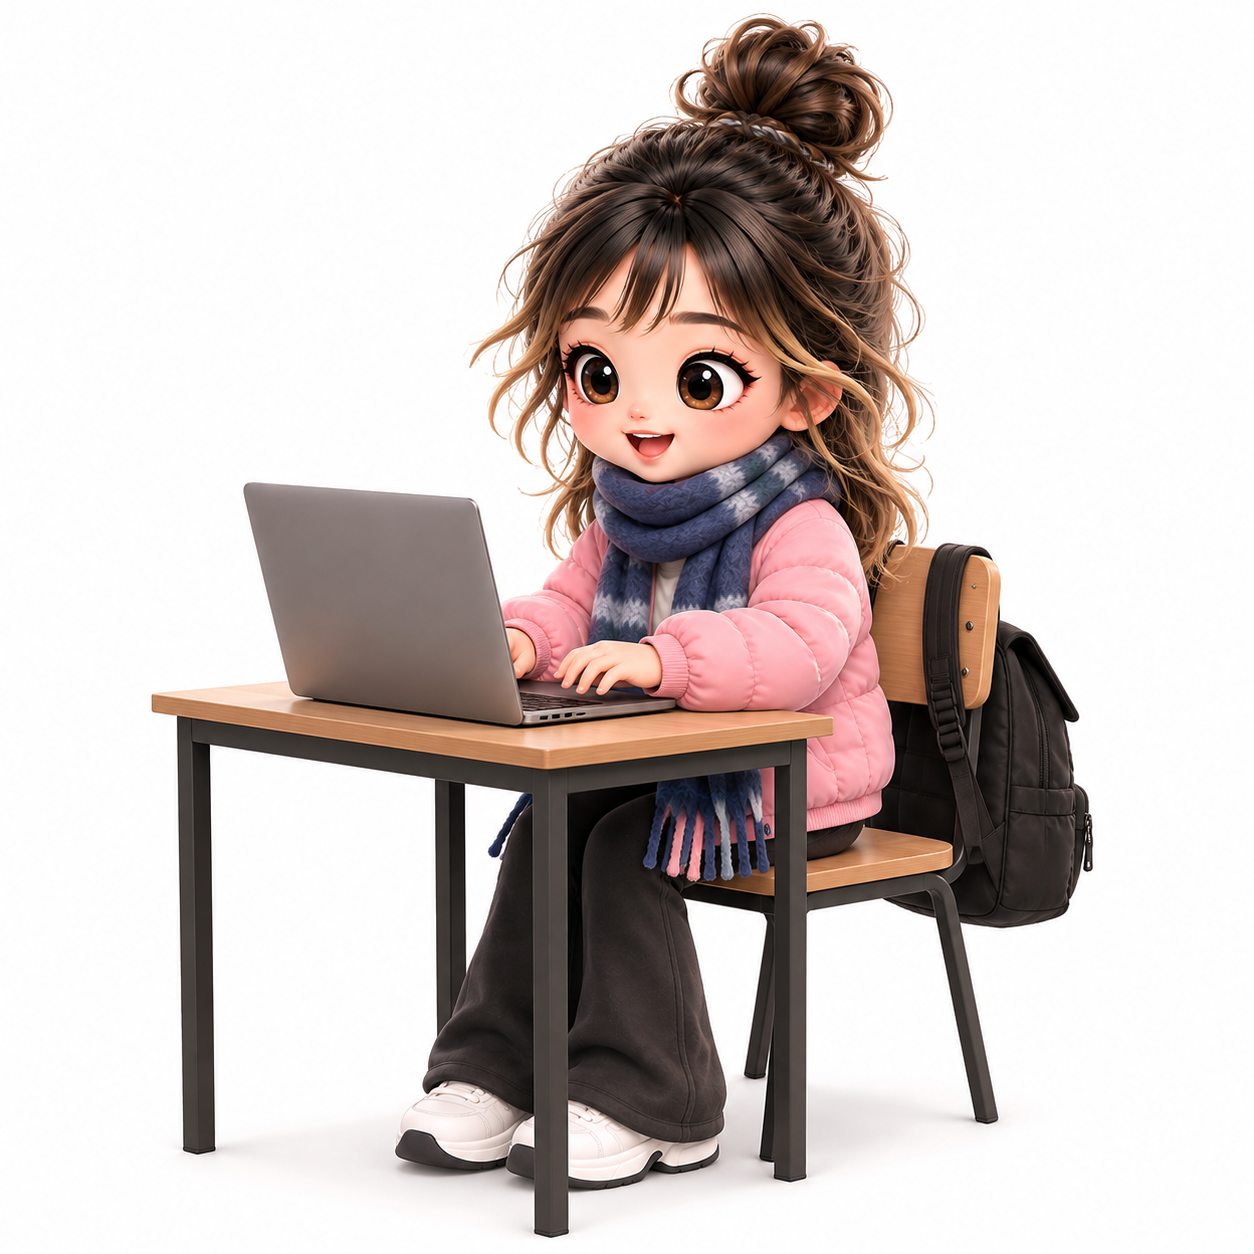
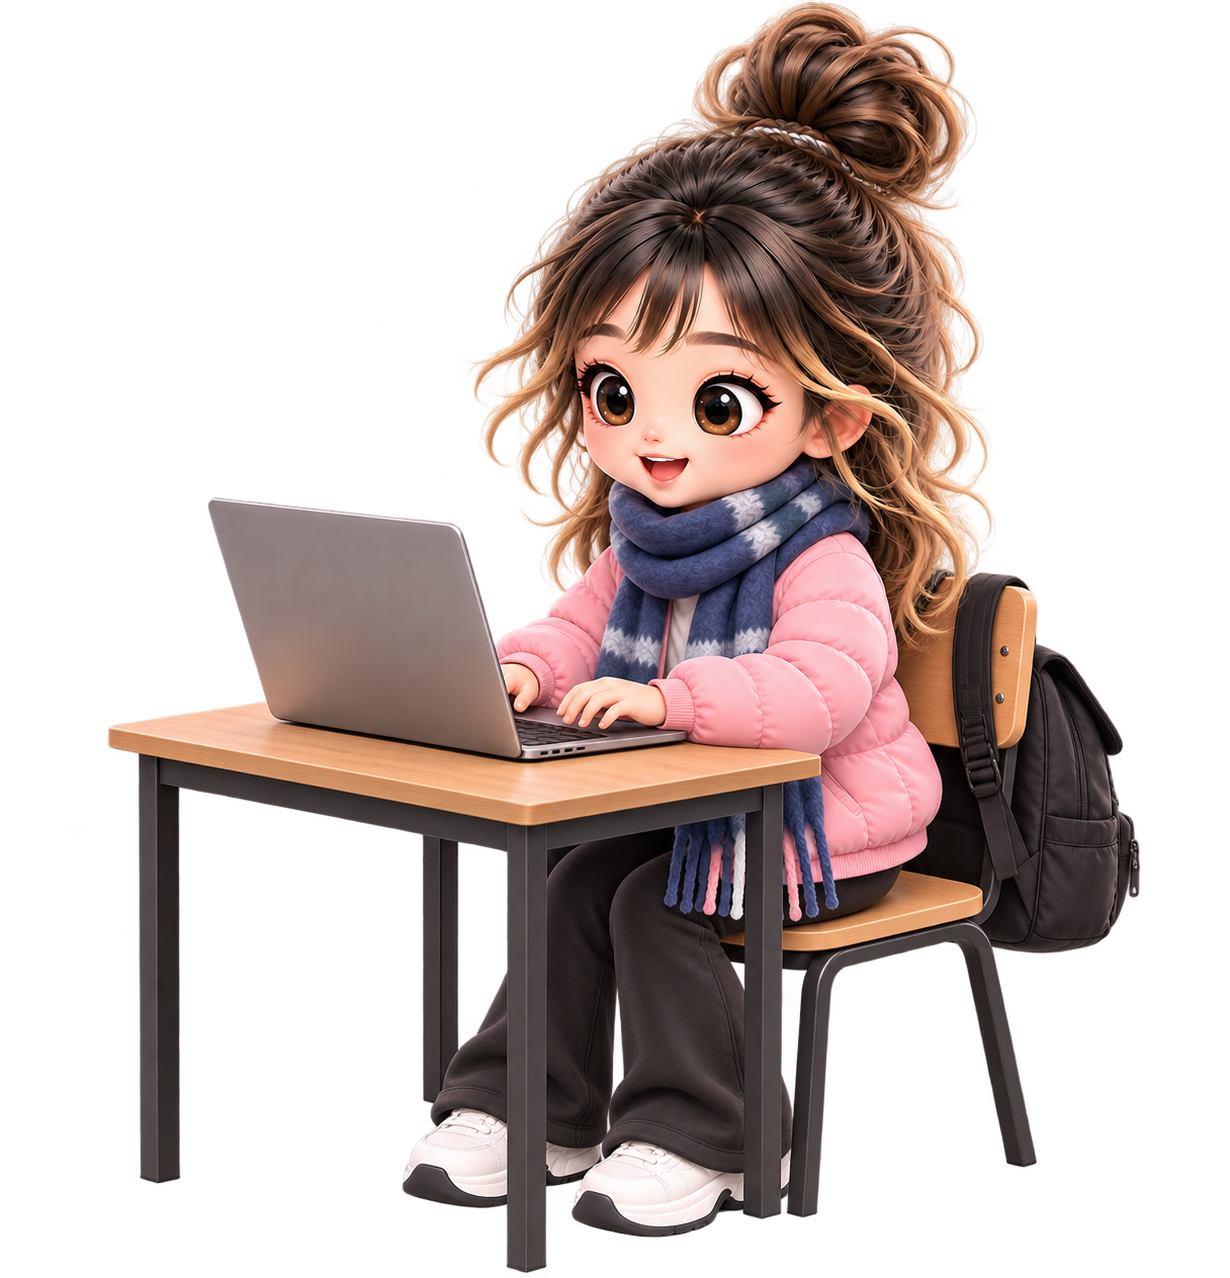
picture

diff --git a/assets/kat-pet.js b/assets/kat-pet.js
@@ -38,7 +38,7 @@
     }
   })();
 
-  // ── 1. 动作帧（已接入 ChatGPT 生成的 10 帧素材）────
+  // ── 1. 动作帧（已接入 ChatGPT 生成的 6 帧素材）────
   var FALLBACK = (window.RC_CONFIG && RC_CONFIG.katAvatar) || RC_ROOT + 'assets/kat-avatar.PNG';
   var KAT_FRAMES = {
     idle:  RC_ROOT + 'assets/kat/kat-idle.png',
@@ -47,10 +47,11 @@
     sleep: RC_ROOT + 'assets/kat/kat-sleep.png',
     cute:  RC_ROOT + 'assets/kat/kat-cute.png',
     wait:  RC_ROOT + 'assets/kat/kat-wait.png',
-    map:   RC_ROOT + 'assets/kat/kat-map.png',
-    curiosity:   RC_ROOT + 'assets/kat/kat-curiosity.png',
-    eat:   RC_ROOT + 'assets/kat/kat-eat.png',
-    lungaage:   RC_ROOT + 'assets/kat/kat-lungaage.png'
+    luggage:   RC_ROOT + 'assets/kat/kat-luggage.png',
+    walk:      RC_ROOT + 'assets/kat/kat-walk.png',
+    map:       RC_ROOT + 'assets/kat/kat-map.png',
+    curiosity: RC_ROOT + 'assets/kat/kat-curiosity.png',
+   computer:   RC_ROOT + 'assets/kat/kat-computer.png'
   };
 
   // ── 2. 行为参数 ──────────────────────────────────────────
@@ -157,6 +158,13 @@
   document.body.appendChild(pet);
 
   var img    = pet.querySelector('.kat-pet-img');
+  // 兜底：帧图加载失败（如新帧未上传/命名不符）时，退化到上次成功加载的照片，避免破图
+  var lastGoodSrc = img.getAttribute('src') || KAT_FRAMES.idle;
+  img.addEventListener('load', function () { lastGoodSrc = img.src; });
+  img.addEventListener('error', function () {
+    if (img.src === lastGoodSrc) return; // 兜底帧本身若也失败则不再循环
+    img.src = lastGoodSrc;
+  });
   var badge  = pet.querySelector('.kat-pet-badge');
   var bubble = pet.querySelector('.kat-pet-bubble');
   var menu   = pet.querySelector('.kat-pet-menu');
@@ -172,16 +180,19 @@
 
   // ── 5. 状态机 ───────────────────────────────────────────
   var state = 'idle';
+  var forcingFrame = false;
   var lastActivity = Date.now();
 
   function setState(next) {
-    if (state === next) return;
+    if (state === next && !forcingFrame) return;
     state = next;
     img.src = KAT_FRAMES[next] || FALLBACK;
     pet.classList.toggle('kat-sleep', next === 'sleep');
     pet.classList.toggle('kat-wave', next === 'wave' || next === 'jump');
     pet.classList.toggle('kat-cute', next === 'cute');
     pet.classList.toggle('kat-wait', next === 'wait');
+    var POSE = ['luggage', 'walk', 'map', 'curiosity'];
+    pet.classList.toggle('kat-pose', POSE.indexOf(next) >= 0);
   }
 
   function wake() {
@@ -193,7 +204,7 @@
   function scheduleAction() {
     var delay = ACTION_MIN + Math.random() * (ACTION_MAX - ACTION_MIN);
     setTimeout(function () {
-      if (state === 'idle') {
+      if (state === 'idle' && !activeSection && !seqTimer) {
         var r = Math.random();
         var pick = r < 0.4 ? 'wave' : (r < 0.7 ? 'jump' : 'cute');
         setState(pick);
@@ -260,7 +271,7 @@
       fin = petClamp(fin.left, fin.top);
       petSetPos(fin.left, fin.top);
       petSavePos(fin.left, fin.top);
-      setState('idle');
+      setState(baseState());
     } else {
       // 没移动 → 当作点击：弹菜单
       wake();
@@ -272,7 +283,7 @@
         setState('wait');
       } else {
         setState('wave');
-        setTimeout(function () { if (state === 'wave') setState('idle'); }, ACTION_HOLD);
+        setTimeout(function () { if (state === 'wave') setState(baseState()); }, ACTION_HOLD);
       }
     }
   }
@@ -301,7 +312,7 @@
       try { localStorage.setItem('kat_pet_hidden', '1'); } catch (err) {}
     }
     menu.classList.add('hidden');
-    setState('idle');
+    setState(baseState());
   });
 
   // 点页面其他地方 → 关菜单 + 回 idle
@@ -333,51 +344,136 @@
     window.addEventListener(ev, wake, { passive: true });
   });
 
-  // 首次访问：显示欢迎气泡 10s（仅一次）
-  try {
-    if (!localStorage.getItem('kat_pet_hidden') && !localStorage.getItem('kat_bubble_seen')) {
-      bubble.classList.remove('hidden');
-      localStorage.setItem('kat_bubble_seen', '1');
-      setTimeout(function () { bubble.classList.add('hidden'); }, 10000);
-    }
-  } catch (err) {}
-
   // 之前藏过 → 不再显示
   try { if (localStorage.getItem('kat_pet_hidden')) pet.classList.add('kat-hidden'); } catch (err) {}
 
-  // ── 7. 简单情境感知：滚动到 Ready Score 区域时提醒一次 ──
-  // FIX: 原选择器找 #ready-score，但页面上不存在该 id。
-  // 首页真实结构是 index.html 里静态的 <div id="ready-container">，
-  // getready.js 稍后把 <section id="ready-section"> 注入其中
-  // （kat-pet.js 在 getready.js 之前加载，只能观察到静态容器）。
-  // IntersectionObserver 会在容器被填充后自动重新计算，滚动到位即触发。
-  var rsTarget = document.querySelector('#ready-container, #ready-section, [data-ready-score], a[href*="getready"]');
-  if (rsTarget) {
-    var rsShown = false;
-    if ('IntersectionObserver' in window) {
-      var io = new IntersectionObserver(function (entries) {
-        entries.forEach(function (en) {
-          if (en.isIntersecting && !rsShown) {
-            rsShown = true;
-            bubble.querySelector('.kat-pet-bubble-title').textContent = 'Ready Score time? ✅';
-            bubble.querySelector('.kat-pet-bubble-body').textContent = '10 steps to get China-ready. Start now →';
-            bubble.classList.remove('hidden');
-            setState('wave');
-            setTimeout(function () {
-              bubble.classList.add('hidden');
-              if (state === 'wave') setState('idle');
-            }, 6000);
-          }
-        });
-      }, { threshold: 0.4 });
-      io.observe(rsTarget);
+  // ── 7. 单气泡状态机：全站任何时刻只可能有一个 Kat 气泡 ──
+  // 所有"让 Kat 说话"的地方都必须走 say()，绝不直接操作 bubble 显隐。
+  // 这从结构上消灭了"打开网站看到两个对话框"的问题。
+  var bubbleTimer = null;
+  function hideBubble() {
+    if (bubbleTimer) { clearTimeout(bubbleTimer); bubbleTimer = null; }
+    bubble.classList.add('hidden');
+  }
+  function say(title, body, opts) {
+    opts = opts || {};
+    if (bubbleTimer) { clearTimeout(bubbleTimer); bubbleTimer = null; }
+    bubble.querySelector('.kat-pet-bubble-title').textContent = title || '';
+    bubble.querySelector('.kat-pet-bubble-body').textContent = body || '';
+    bubble.classList.remove('hidden');
+    if (opts.duration !== 0) {
+      bubbleTimer = setTimeout(hideBubble, opts.duration || 8000);
     }
   }
 
-  // ── 8. China Ready Score 联动：宠物心情 = 清单进度 ─────────
-  // getready.js（较晚加载）把勾选进度存进 localStorage('rc_ready_done')，
-  // 并在每次打勾 / 复访还原时派发 'rc:progress' 事件（detail.pct = 0~100）。
-  // 映射：0% sleep · 1–39% idle · 40–79% wave · 80–99% jump · 100% cute
+  // ── 8. 分区情境感知：Kat 随页面区块切换台词与动作帧 ──
+  // index.html 的各 section 被观察；进入视口即触发对应行为。
+  // 也可在 HTML 加 data-kat-section="home|ready|cities|map|community|services" 显式标记（优先级更高）。
+  var activeSection = null;
+  var seqTimer = null;
+  function playSequence(frames, hold, done) {
+    if (seqTimer) { clearTimeout(seqTimer); seqTimer = null; }
+    var i = 0;
+    function step() {
+      if (i >= frames.length) { if (done) done(); return; }
+      forcingFrame = true;
+      setState(frames[i]);
+      forcingFrame = false;
+      i++;
+      seqTimer = setTimeout(step, hold);
+    }
+    step();
+  }
+  var SECTION_MAP = {
+    home: {
+      frames: ['wave'],
+      line: "Hey, I'm Kat \u2014 your friend in China. Let's get you ready \u{1F1E8}\u{1F1F3}",
+      returningLine: function (pct) { return "Welcome back! You're " + pct + '% ready \u2014 continue?'; }
+    },
+    ready: {
+      sequence: ['idle', 'cute', 'luggage', 'jump'],
+      rest: 'cute',
+      line: 'Tick these off \u2014 I get happier as you go \u{1F392}'
+    },
+    cities: {
+      frames: ['walk'],
+      line: 'Which city are you most excited about? Let me show you around.'
+    },
+    map: {
+      frames: ['map'],
+      line: "Let's explore China together \u2014 where to first?"
+    },
+    community: {
+      frames: ['computer'],
+      line: "Stick with me and you'll be a China master \u2014 \u{1F1E8}\u{1F1F3}"
+    },
+    services: {
+      frames: ['cute'],
+      line: "Want me to plan the whole trip? That's what I'm here for \u2192"
+    }
+  };
+  // 区块选择器（与 index.html 实际结构对齐；data-kat-section 优先）
+  var SECTION_TARGETS = [
+    { sel: '[data-kat-section="home"], .hero', key: 'home' },
+    { sel: '[data-kat-section="ready"], #ready-container, #ready-section', key: 'ready' },
+    { sel: '[data-kat-section="cities"], #cities-section', key: 'cities' },
+    { sel: '[data-kat-section="map"], #map-container', key: 'map' },
+    { sel: '[data-kat-section="community"], #community-container', key: 'community' },
+    { sel: '[data-kat-section="services"], #products-section', key: 'services' }
+  ];
+  var homeGreeted = false;
+  function handleSection(key) {
+    var cfg = SECTION_MAP[key];
+    if (!cfg) return;
+    activeSection = key;
+    if (cfg.sequence) {
+      say('', cfg.line, { duration: 9000 });
+      playSequence(cfg.sequence, 700, function () { if (cfg.rest) setState(cfg.rest); });
+      return;
+    }
+    var frames = cfg.frames || ['idle'];
+    if (key === 'home') {
+      setState('wave');
+      if (!homeGreeted) {
+        homeGreeted = true;
+        var pct = currentReadyPct();
+        if (pct > 0) say('Welcome back!', cfg.returningLine(pct), { duration: 9000 });
+        else say("Hey, I'm Kat \u{1F44B}", cfg.line, { duration: 9000 });
+      }
+      return;
+    }
+    setState(frames[0]);
+    say('', cfg.line, { duration: 9000 });
+  }
+  if ('IntersectionObserver' in window) {
+    SECTION_TARGETS.forEach(function (t) {
+      try {
+        var el = document.querySelector(t.sel);
+        if (!el) return;
+        var obs = new IntersectionObserver(function (entries) {
+          entries.forEach(function (en) {
+            if (en.isIntersecting && en.intersectionRatio >= 0.35) {
+              handleSection(t.key);
+            } else if (activeSection === t.key) {
+              activeSection = null;
+              if (seqTimer) { clearTimeout(seqTimer); seqTimer = null; }
+              hideBubble();
+              setState(baseState());
+            }
+          });
+        }, { threshold: [0.35] });
+        obs.observe(el);
+      } catch (e) {}
+    });
+  }
+
+  // ── 8. China Ready Score 联动：宠物心情 = 清单进度（全站）──
+  // getready.js 把勾选进度存进 localStorage('rc_ready_done')，并在每次打勾 /
+  // 复访还原时派发 'rc:progress' 事件（detail.pct = 0~100）。
+  // 映射（按 Kat 的心智模型：做了一些就该开心）：
+  //   0%        → idle（还没开始，正常待机）
+  //   1–39%     → wave（招手鼓励）
+  //   40–100%   → cute（开心：你都做了这么多了）
   function currentReadyPct() {
     try {
       var saved = JSON.parse(localStorage.getItem('rc_ready_done') || '[]');
@@ -385,38 +481,26 @@
       return Math.min(100, Math.round(saved.length / 10 * 100)); // 10-step checklist
     } catch (err) { return 0; }
   }
+  // 宠物“安定”下来的基准状态 = 当前进度心情，而不是永远 idle。
+  // 随机小动作结束 / 从瞌睡唤醒 / 关菜单后都回落到这里 —— 瞄一眼宠物 = 看进度。
   function petStateFor(pct) {
-    if (pct <= 0) return 'sleep';
-    if (pct < 40) return 'idle';
-    if (pct < 80) return 'wave';
-    if (pct < 100) return 'jump';
+    if (pct <= 0) return 'idle';
+    if (pct < 40) return 'wave';
     return 'cute';
   }
-  // 基准状态：随机小动作结束 / 从瞌睡唤醒后回落到这里，
-  // 而不是永远 idle —— 这样"瞄一眼宠物心情"就等于看进度。
   function baseState() {
     var pct = currentReadyPct();
-    if (pct >= 100) return 'cute';
-    if (pct >= 80) return 'jump';
-    if (pct >= 40) return 'wave';
+    if (pct >= 40) return 'cute';
+    if (pct > 0)   return 'wave';
     return 'idle';
   }
-  // 打勾 → 实时换心情；复访（returning: true）→ 欢迎气泡
+  // 全站：每页加载即按已存进度设定初始心情（不再卡在 #ready-container）。
+  var initPct = currentReadyPct();
+  if (initPct > 0) setState(petStateFor(initPct));
+  // 清单进度 → 仅在无区块激活时更新心情（分区台词优先；首页问候由 home 区块负责）
   document.addEventListener('rc:progress', function (e) {
     var pct = (e.detail && typeof e.detail.pct === 'number') ? e.detail.pct : 0;
-    setState(petStateFor(pct));
-    if (e.detail && e.detail.returning && bubble && bubble.classList.contains('hidden')) {
-      bubble.querySelector('.kat-pet-bubble-title').textContent = 'Welcome back! 🎒';
-      bubble.querySelector('.kat-pet-bubble-body').textContent = "You're " + pct + "% China-ready — let's keep going.";
-      bubble.classList.remove('hidden');
-      setTimeout(function () { bubble.classList.add('hidden'); }, 7000);
-    }
+    if (!activeSection) setState(petStateFor(pct));
   });
-  // 进页面时按已存进度设定初始心情（仅首页有清单；0% 保持原有 idle 行为，
-  // 其他没有清单的页面宠物行为完全不变）
-  if (document.getElementById('ready-container')) {
-    var initPct = currentReadyPct();
-    if (initPct > 0) setState(petStateFor(initPct));
-  }
 
 })();

diff --git a/start-planning.html b/start-planning.html
@@ -109,9 +109,9 @@
 
     <!-- 0. NAME -->
     <div class='planner-group' data-group='name'>
-      <h2>1 · May I ask your name?</h2>
+      <h2>1 · Name?</h2>
       <div class='field'>
-        <label>First name or nickname</label>
+        <label>What should I call you?</label>
         <input type='text' id='name' placeholder='e.g. Sarah'>
       </div>
     </div>
@@ -151,7 +151,7 @@
 
     <!-- 3. BUDGET -->
     <div class='planner-group' data-group='budget'>
-      <h2>4 · What's your budget per person?</h2>
+      <h2>4 · What's your budget PER PERSON?</h2>
       <div class='sub'>Rough number is fine - it shapes where we stay &amp; eat. If your budget covers the whole trip including flights, tell me where you're flying from so I can split the math.</div>
       <div class='field' style='margin-bottom:14px;'>
         <label>Flying from <span class='hint'>(city or country - optional)</span></label>

diff --git a/index.html b/index.html
@@ -100,7 +100,7 @@
 <section class="hero">
   <div class="hero-badge">🇨🇳 Made by a local, for curious friends</div>
   <h1 class="hero-title">Your friend in China is waiting.<br>Let's get you there <em>ready</em>.</h1>
-  <div class="hero-updated" style="margin-top:10px;font-size:12px;color:#4a7a4a;font-weight:500;letter-spacing:.2px;">📅 Updated August 2026 · ✓ verified against official sources</div>
+  <div class="hero-updated" style="margin-top:10px;font-size:12px;color:#4a7a4a;font-weight:500;letter-spacing:.2px;">📅 Updated September 2026 · ✓ verified against official sources</div>
   <p class="hero-sub">You've never been to China. You don't know where to start. Don't worry — I've got you, step by step, from passport check to your first hotpot.</p>
   <!-- Kat signature -->
   <div class="hero-kat-sig" onclick="openModal('about-modal')" style="cursor:pointer">
